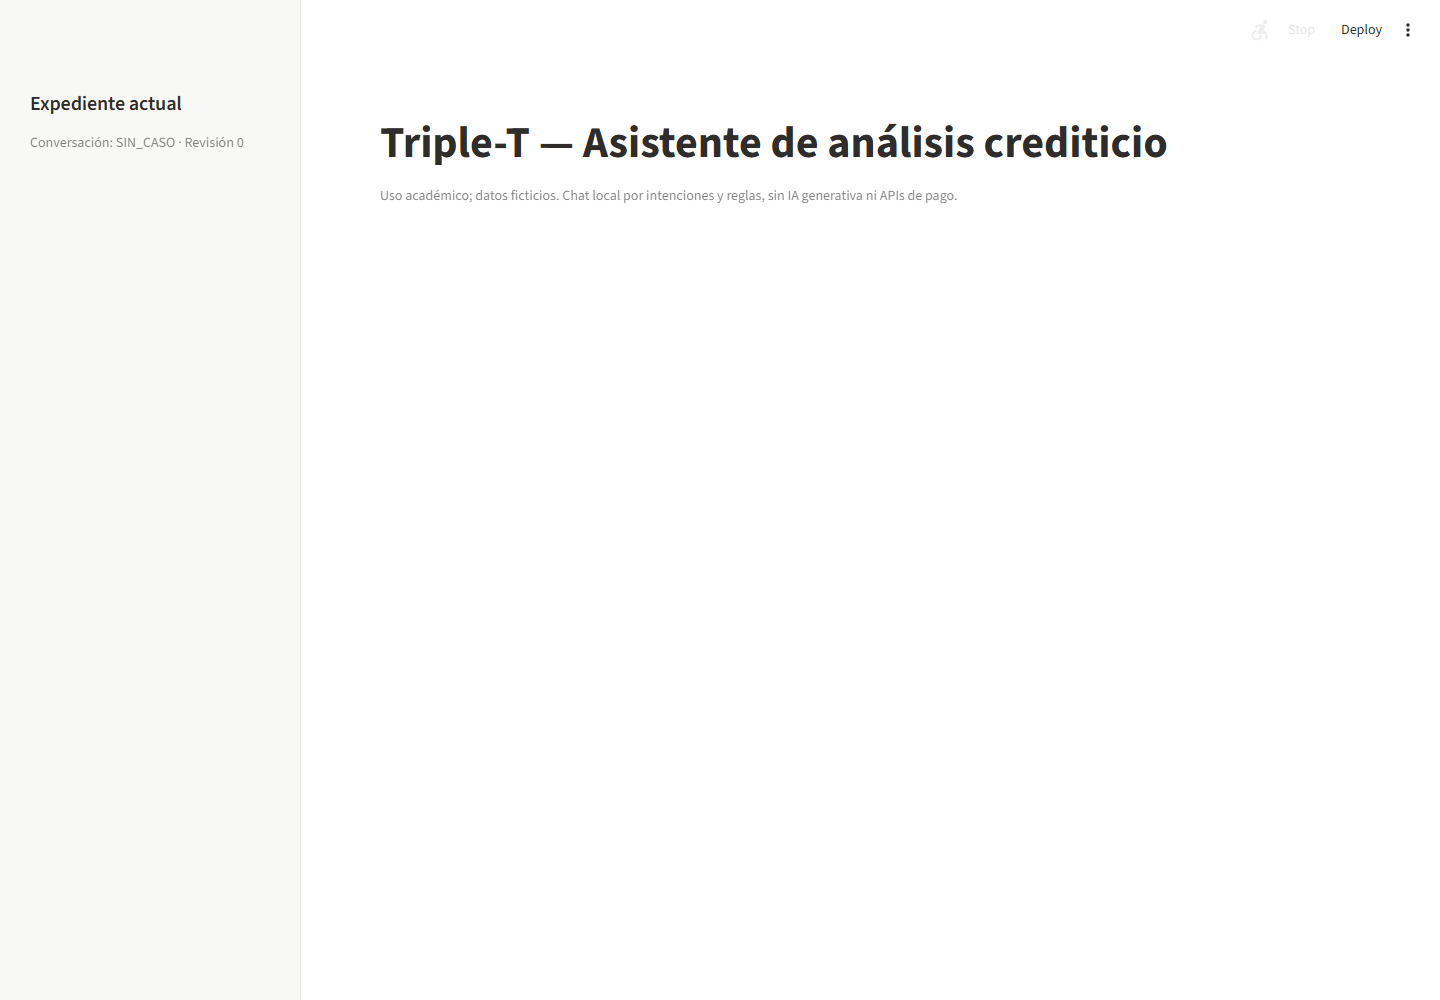
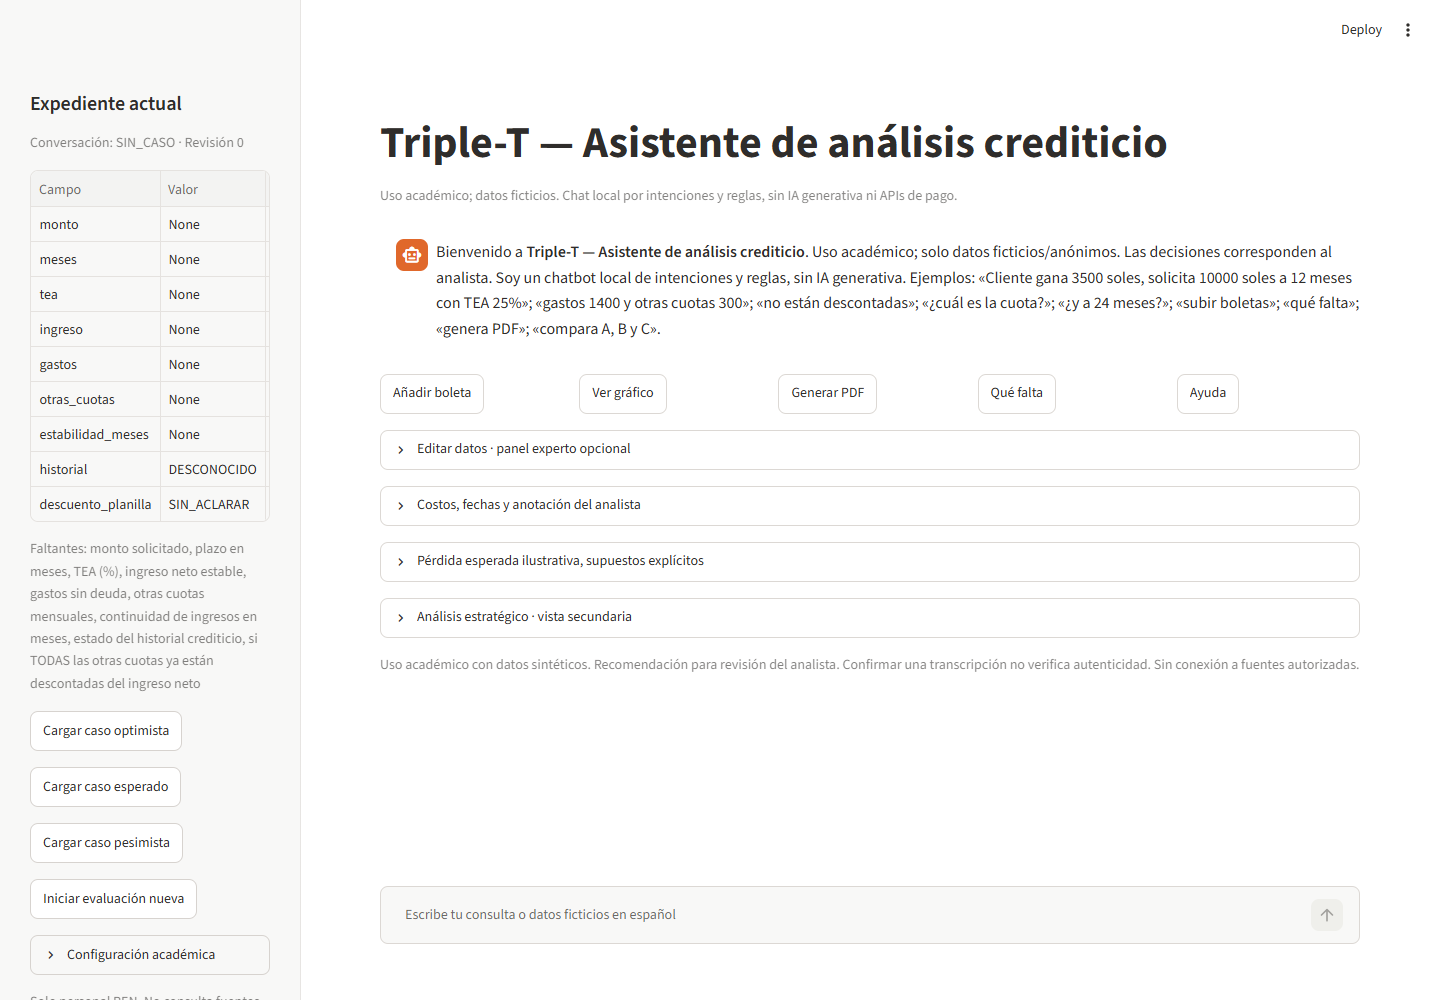
fix: format scenario amounts and capture fully loaded chat

diff --git a/ui_chat.py b/ui_chat.py
@@ -234,7 +234,8 @@ def mostrar_chat():
         if c.escenario:
             st.caption("Base intacta. Cambios del escenario: " + ", ".join(f"{k}={v}" for k,v in c.parametros_escenario.items()))
             st.dataframe([{"Contexto": nombre, "Monto": str(e.monto), "Meses": e.meses, "TEA": str(e.tea),
-                "Cuota base": str(r.cifras.get("cuota_base", "N/D")), "Saldo disponible": str(r.cifras.get("saldo_post_cuota", "N/D"))}
+                "Cuota base": f"{r.cifras['cuota_base']:,.2f}" if "cuota_base" in r.cifras else "N/D",
+                "Saldo disponible": f"{r.cifras['saldo_post_cuota']:,.2f}" if "saldo_post_cuota" in r.cifras else "N/D"}
                 for nombre, e, r in (("Base", c.expediente, c.resultado), ("Escenario", exp_activo, r_activo))], hide_index=True)
         mostrar_resultado(r_activo, base=c.resultado if c.escenario else None)
     if c.informe is not None and c.informe_revision == c.revision:
